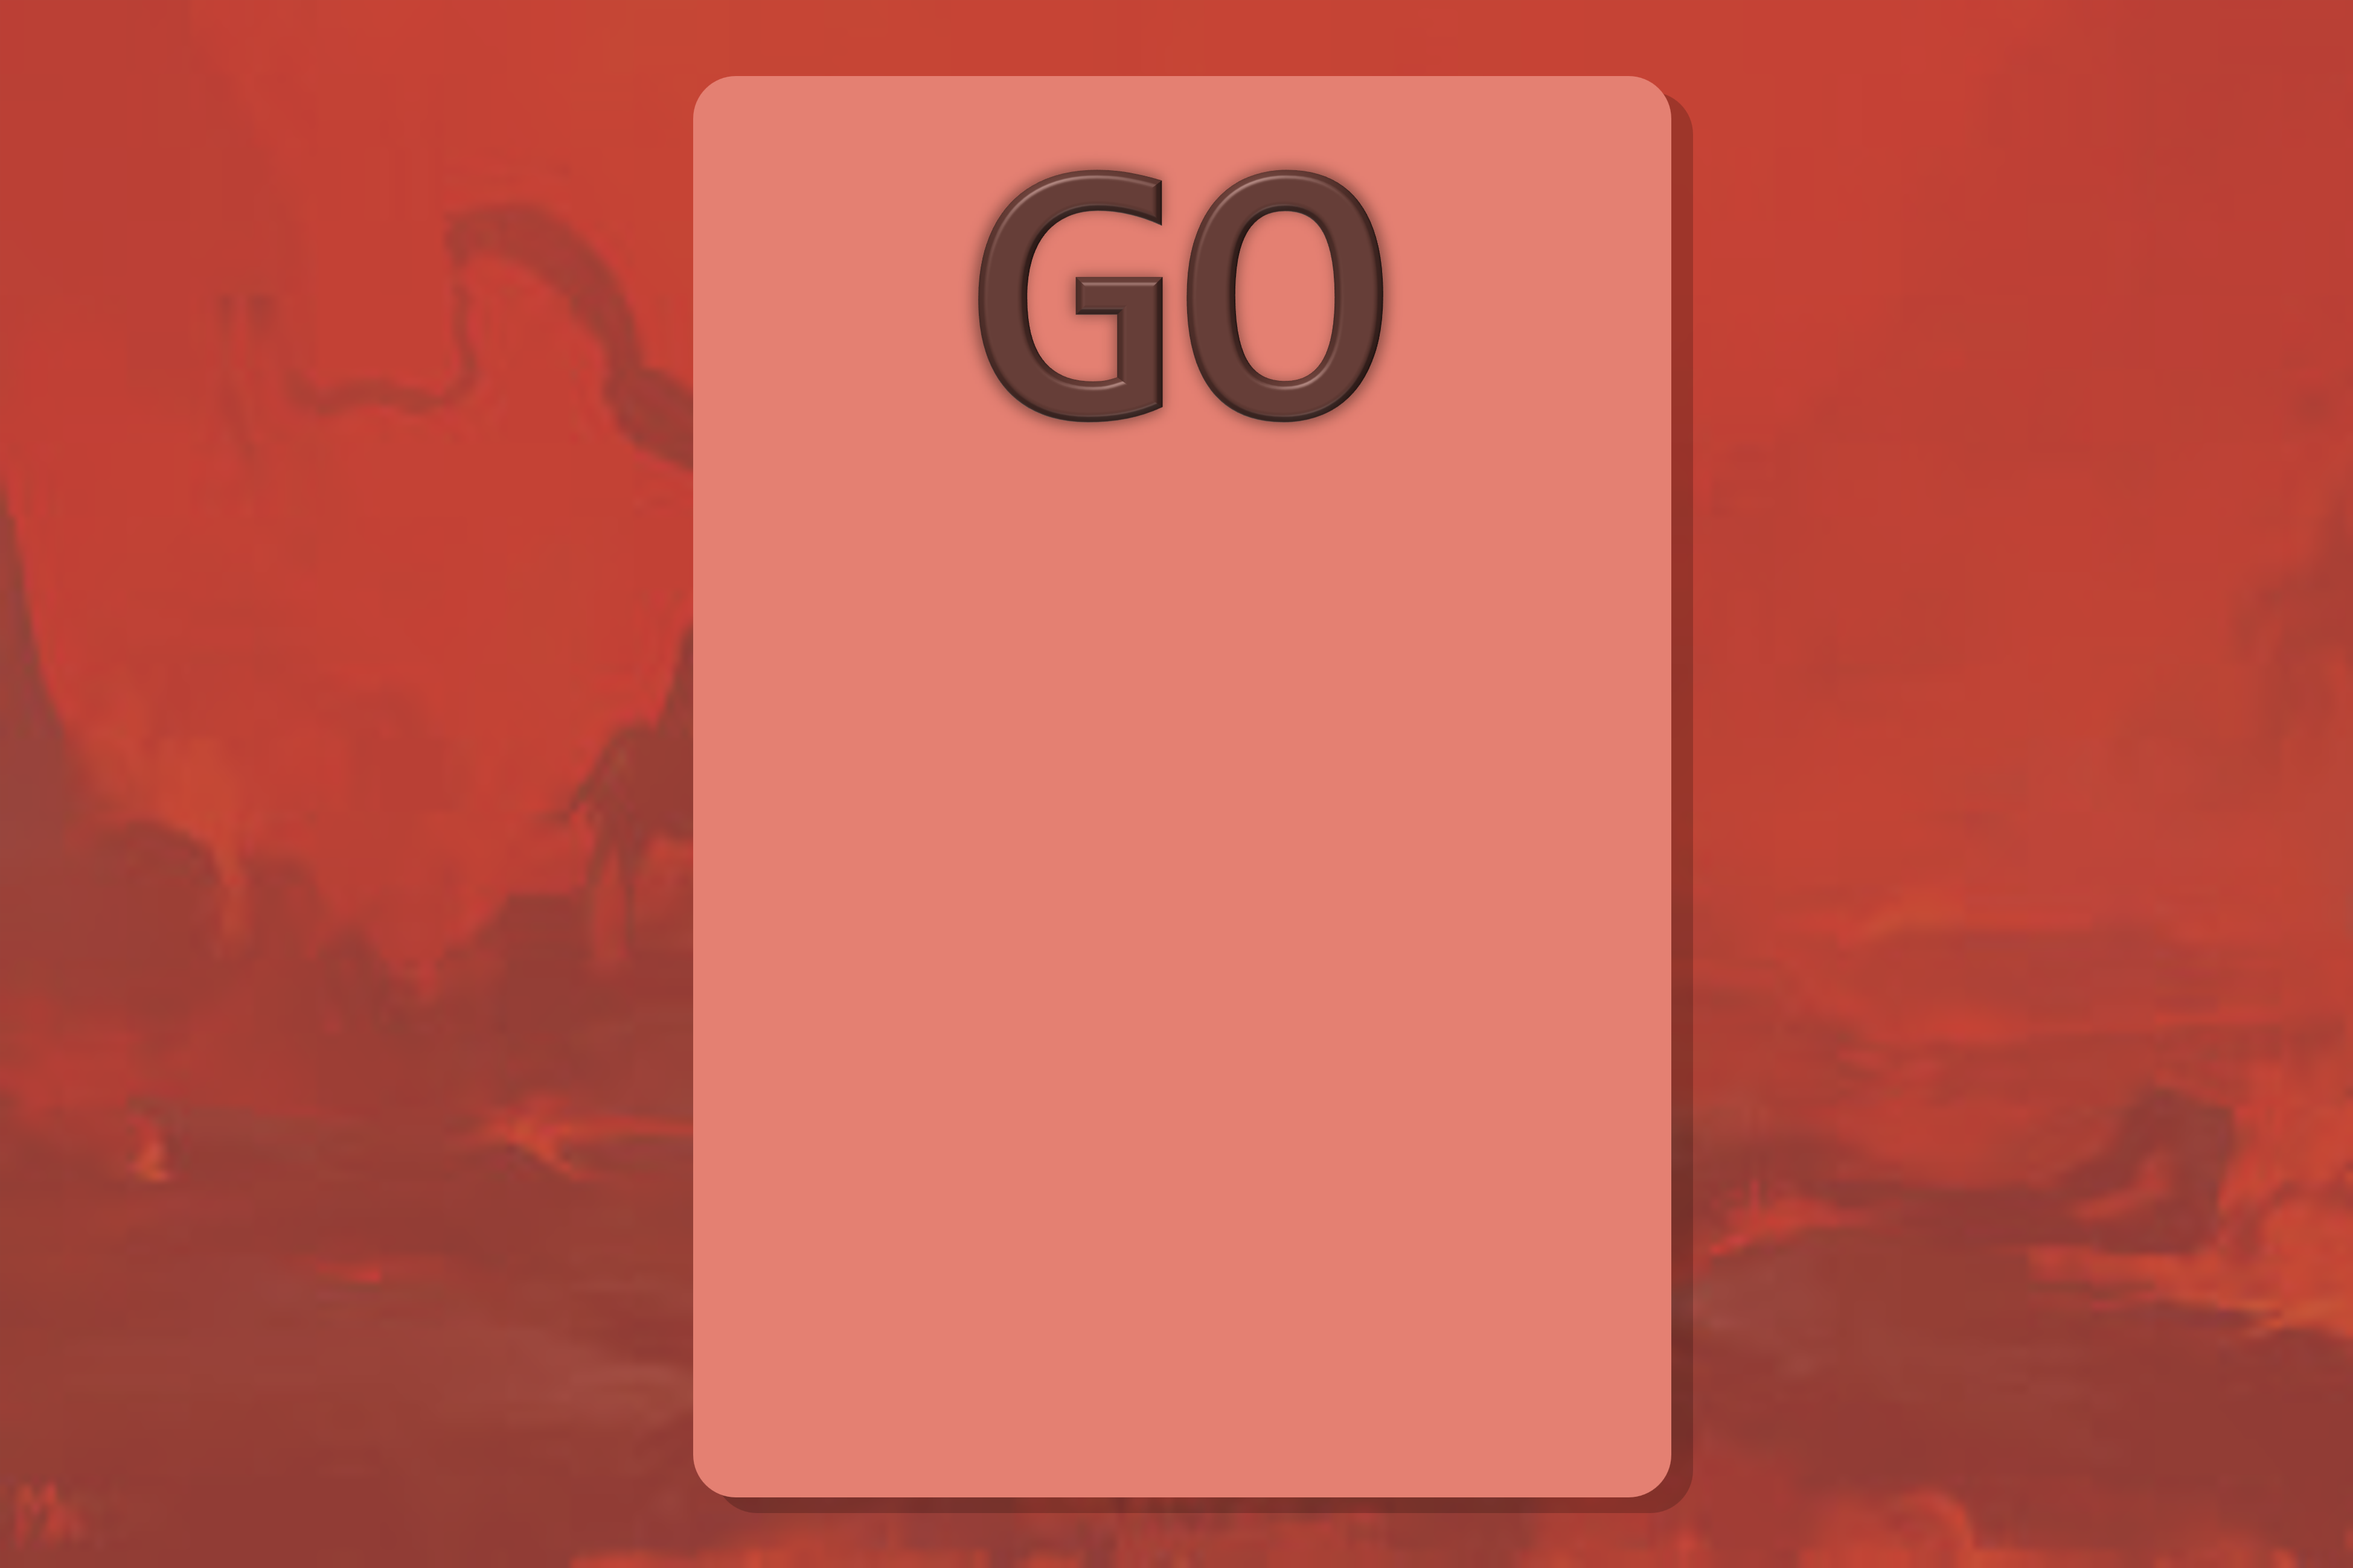
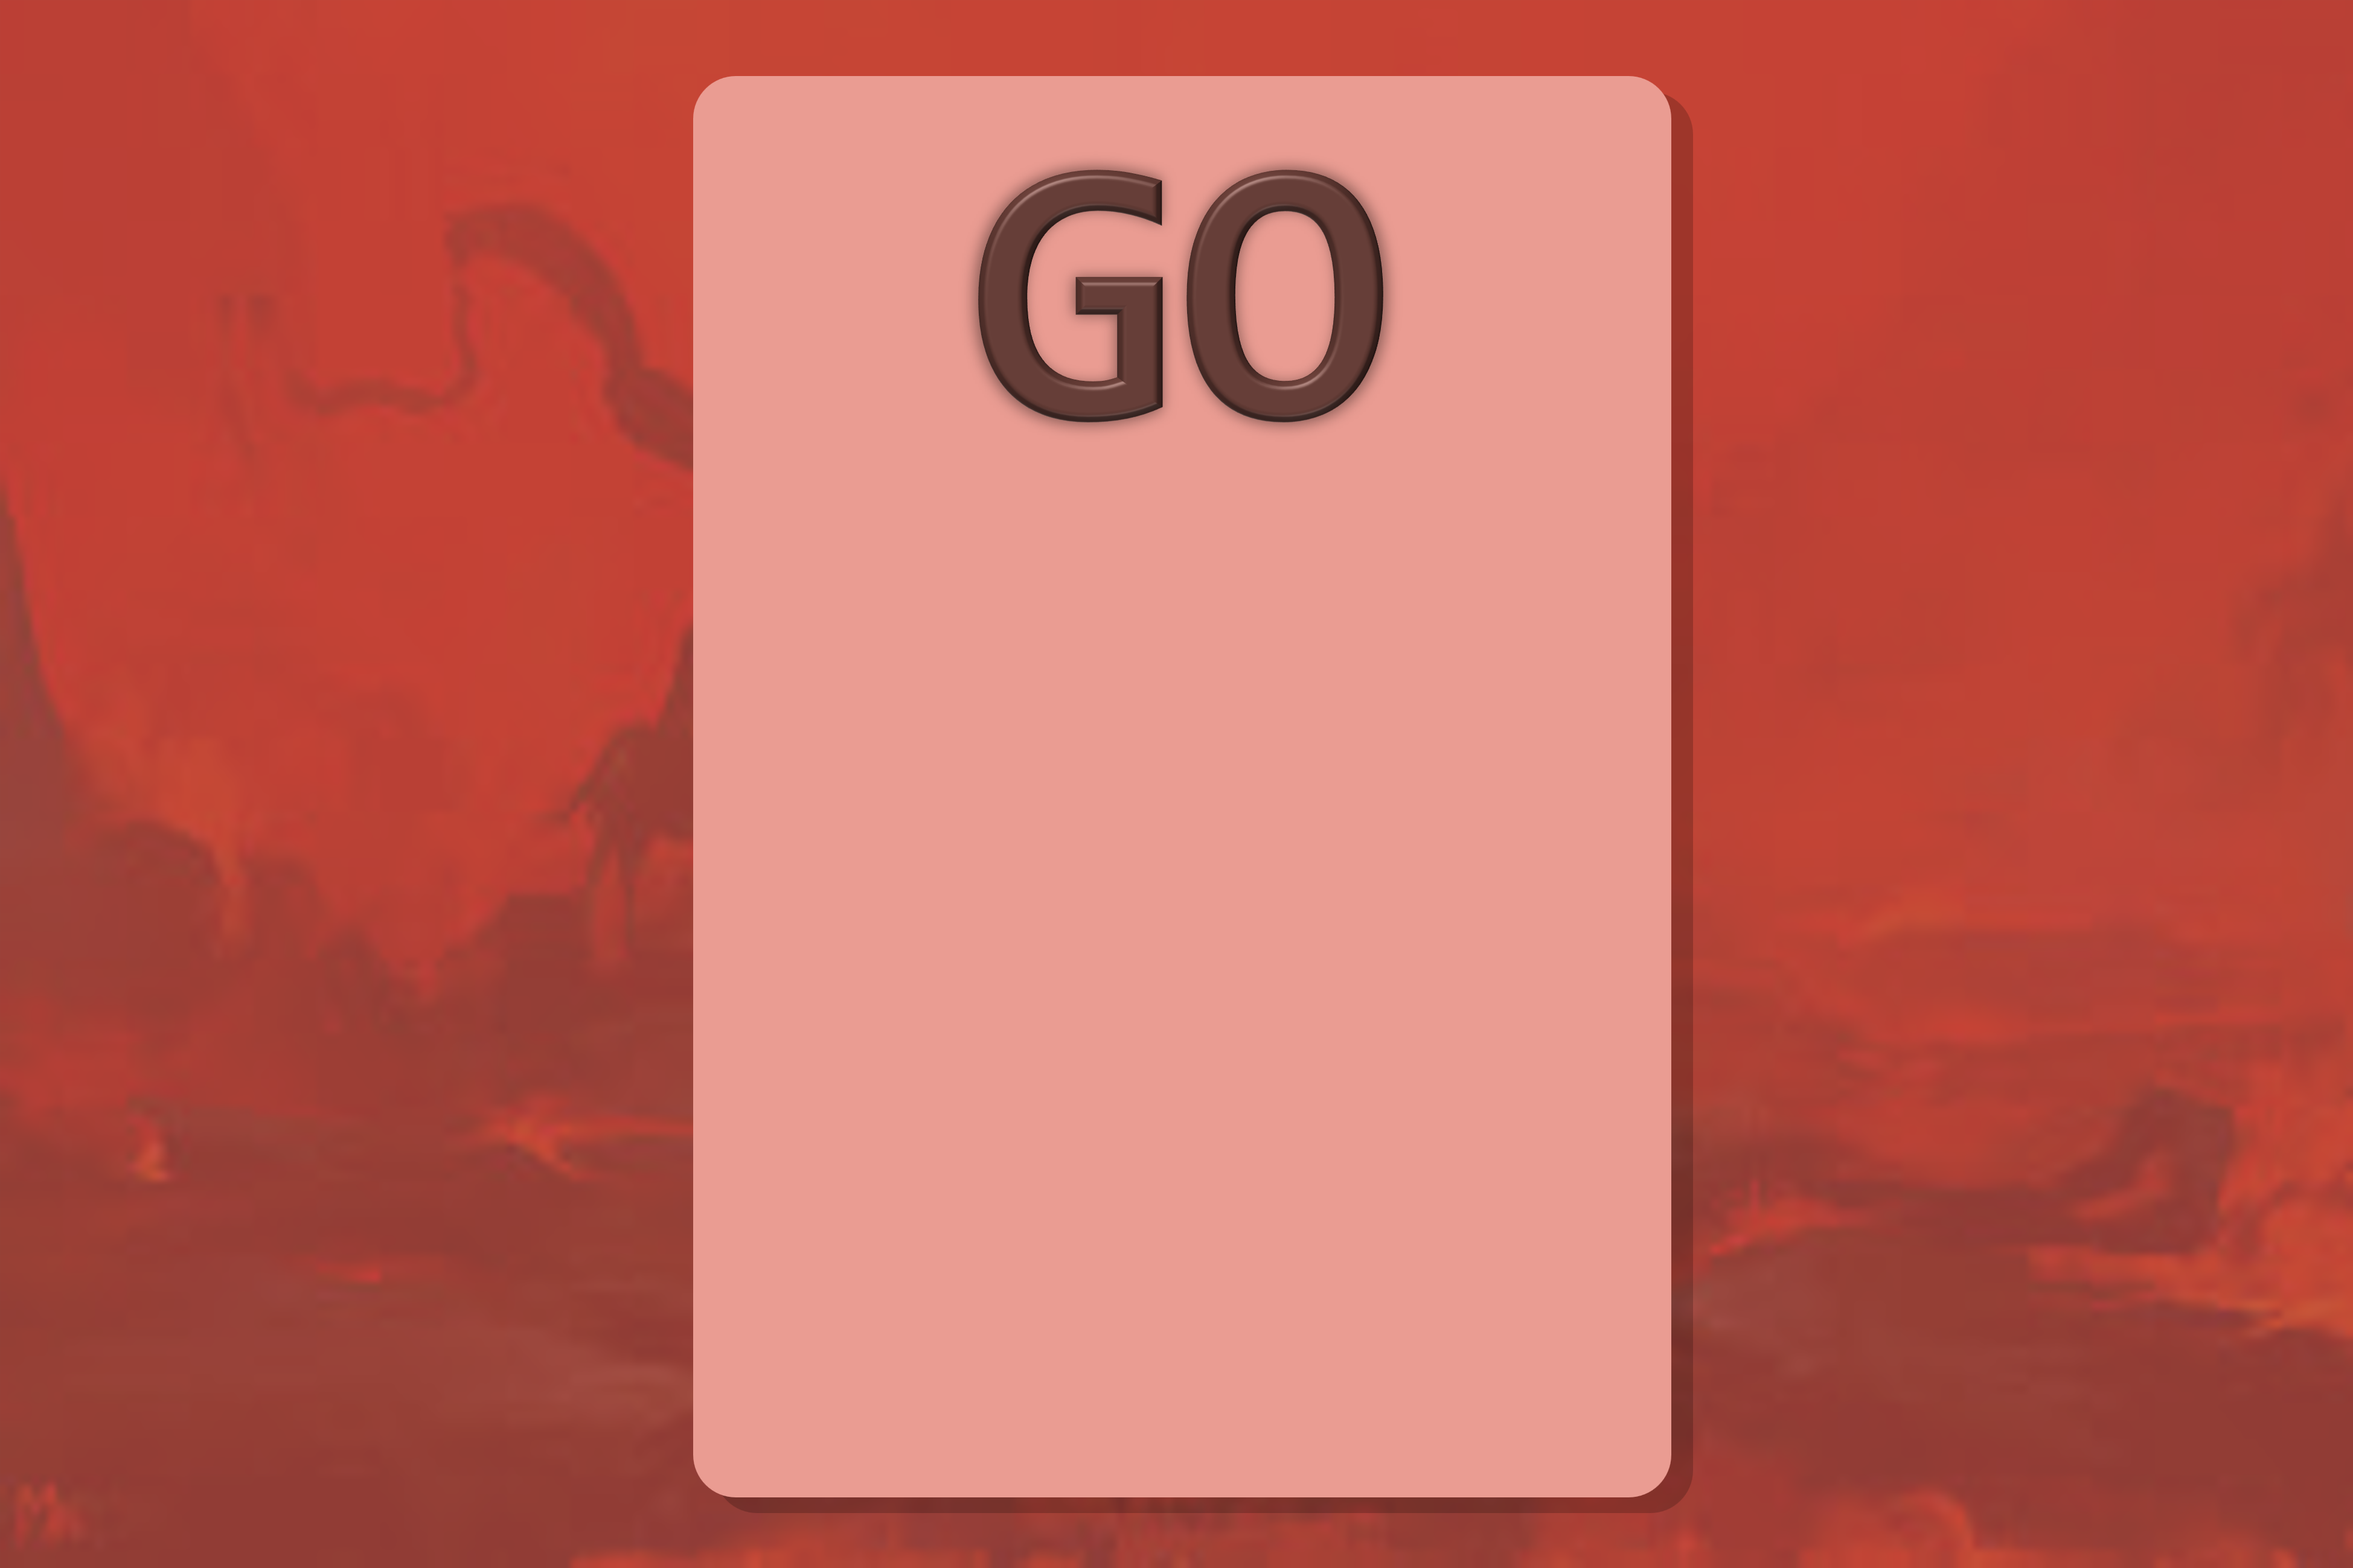
PolishedAssets

diff --git a/src/ScoreRevealManager.cpp b/src/ScoreRevealManager.cpp
@@ -1,6 +1,6 @@
 #include "ScoreRevealManager.hpp"
 
-void drawText(sf :: RenderWindow& window, std :: string Font_link, std :: string Text, sf :: Vector2f pos){
+void drawText(sf :: RenderWindow& window, std :: string Font_link, std :: string Text, sf :: Vector2f pos) {
     sf :: Font newFont;
     newFont.loadFromFile(Font_link);
     
@@ -9,57 +9,72 @@ void drawText(sf :: RenderWindow& window, std :: string Font_link, std :: string
     label.setColor(metaControls.Color4);
     sf :: FloatRect textBounds = label.getGlobalBounds();
     // do not use textBounds.height
-    float realHeight = (sf :: Text){"o", newFont, 30}.getGlobalBounds().height;
+    float realHeight = (sf :: Text) {"o", newFont, 30}.getGlobalBounds().height;
     
     label.setCharacterSize(30);
-    //centering the text in the box
+    // centering the text in the box
     label.setOrigin(textBounds.left + textBounds.width / 2.0, textBounds.top + realHeight / 2.0);
     label.setPosition(pos);
     window.draw(label);
 }
 
-void ScoreReveal :: setupScoreButton(std :: vector<Button> &button_list){
+void ScoreReveal :: setupScoreButton(std :: vector<Button> &button_list) {
     int width = metaControls.ZONE_SIZE * metaControls.ASPECT_RATIO;
     int height = metaControls.ZONE_SIZE;
-    button_list.push_back(Button({width / 2.0f - 500 / 2.0f, height / 2.0f + 150}, {500, 50}, 
+    button_list.push_back(Button({width / 2.0f - 500 / 2.0f, height / 2.0f + 63}, {500, 50}, 
         19, 2, 
         {"Return Menu", "New Game"}, {sf :: Color(161, 118, 84), sf :: Color(161, 118, 84), sf :: Color(161, 118, 84)}, 
         {1, 2}, ""
     ));
 }   
 
-void ScoreReveal :: drawScoreReveal(sf :: RenderWindow &window, GoBoard& goBoard){
+void ScoreReveal :: drawScoreReveal(sf :: RenderWindow &window, GoBoard& goBoard) {
+    /*
+    Deprecated code for drawing the board
     sf :: Texture ScoringBoard;
-    if(!ScoringBoard.loadFromFile("assets\\ScoreReveal.png")){
+    if (!ScoringBoard.loadFromFile("assets\\ScoreReveal.png")) {
         std :: cerr << "Can't find the Scoring Board image!\n";
         assert(false);
     }
     ScoringBoard.setSmooth(true);
-    
     sf :: Sprite board(ScoringBoard);
     board.setOrigin(ScoringBoard.getSize().x / 2.0f, ScoringBoard.getSize().y / 2.0f);
     board.setPosition(metaControls.ZONE_SIZE * metaControls.ASPECT_RATIO / 2.0f, metaControls.ZONE_SIZE / 2.0f - 50);
+    */
     
-    window.draw(board);
+    // Background overlay effect
+    sf :: RectangleShape overlay;
+    overlay.setSize({metaControls.ZONE_SIZE * metaControls.ASPECT_RATIO, metaControls.ZONE_SIZE});
+    sf :: Color overlayColor = metaControls.Color3 * sf :: Color(192, 192, 192) + sf :: Color(64, 64, 64);
+    overlayColor.a = 192;
+    overlay.setFillColor(overlayColor);
+    window.draw(overlay);
+
+    // Scoring panel
+    sf :: RectangleShape panel;
+    panel.setSize({550, 250});
+    panel.setPosition({(metaControls.ZONE_SIZE * metaControls.ASPECT_RATIO - panel.getSize().x) / 2.0f, (metaControls.ZONE_SIZE - panel.getSize().y) / 2.0f});
+    panel.setFillColor(metaControls.Color2);
+    customPanelRender(window, panel);
+
     std :: string winner, reason;
     auto[whiteScore, blackScore] = goBoard.getScore();
-    if(goBoard.endGame == 1){
-        if(whiteScore > blackScore) {
+    if (goBoard.endGame == 1) {
+        if (whiteScore > blackScore) {
             winner = "White Won";
-        }
-        else{
+        } else {
             winner = "Black Won";
         }
         reason = " by Score";
     }
-    if(goBoard.endGame == 2){
+    if (goBoard.endGame == 2) {
         winner = goBoard.turn == White ? "Black Won" : "White Won";
         reason = " by Resignation";
     }
     int width = metaControls.ZONE_SIZE * metaControls.ASPECT_RATIO;
     int height = metaControls.ZONE_SIZE;
     std :: string FontLink = "font\\Bungee_Regular.ttf";
-    drawText(window, FontLink, "White: " + std :: to_string(whiteScore), {width / 2.0f, height / 2.0f + 50});
-    drawText(window, FontLink, "Black: " + std :: to_string(blackScore), {width / 2.0f, height / 2.0f + 100});
-    drawText(window, FontLink, winner + reason, {width / 2.0f, height / 2.0f});
+    drawText(window, FontLink, "White: " + std :: to_string(whiteScore), {width / 2.0f, height / 2.0f - 37});
+    drawText(window, FontLink, "Black: " + std :: to_string(blackScore), {width / 2.0f, height / 2.0f + 13});
+    drawText(window, FontLink, winner + reason, {width / 2.0f, height / 2.0f - 87});
 }

diff --git a/include/metaControls.hpp b/include/metaControls.hpp
@@ -13,9 +13,9 @@ class MetaControls{ // contains anything related to the game but not part of the
     const double ASPECT_RATIO = 1.0L * (ZONE_SIZE + CONTROL_SIZE) / ZONE_SIZE;
     const double SHIFT_CONST = 50;
     const unsigned CONTROL_SHIFT = 15;
-    const std :: vector<sf :: Color> presetColor1 = {{217, 186, 132}, {82, 138, 160},  {193, 101, 220}, {178, 64, 54},   {106, 151, 63}};     // Background colour (damp)
-    const std :: vector<sf :: Color> presetColor2 = {{229, 194, 117}, {97, 176, 241},  {215, 157, 219}, {228, 128, 114}, {164, 206, 136}};    // Panel colour (soft)
-    const std :: vector<sf :: Color> presetColor3 = {{240, 213, 144}, {145, 195, 250}, {240, 167, 235}, {245, 148, 150}, {178, 229, 162}};    // Object colour (light)
+    const std :: vector<sf :: Color> presetColor1 = {{173, 146, 102}, {82, 138, 160},  {193, 101, 220}, {178, 64, 54},   {106, 151, 63}};     // Background colour (damp)
+    const std :: vector<sf :: Color> presetColor2 = {{229, 194, 117}, {152, 203, 246}, {220, 175, 227}, {234, 156, 146}, {183, 216, 160}};    // Panel colour (soft)
+    const std :: vector<sf :: Color> presetColor3 = {{240, 213, 144}, {198, 226, 250}, {233, 202, 236}, {241, 188, 181}, {205, 228, 190}};    // Object colour (light)
     const std :: vector<sf :: Color> presetColor4 = {{42, 34, 19},    {22, 40, 61},    {69, 41, 73},    {102, 62, 56},   {38, 57, 26}};       // Outline colour (dark)
 
     // Variables
